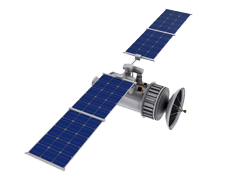
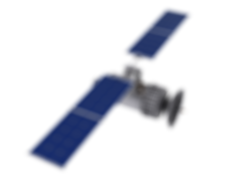
Added some new images, played with timings

diff --git a/sass/_page-the-cloning-process.scss b/sass/_page-the-cloning-process.scss
@@ -17,7 +17,7 @@
 
 .ig-satellite {
     width: 60%;
-    left: -25%;
+    left: -20%;
     filter: blur(5px);
 }
 

diff --git a/views/the-cloning-process.php b/views/the-cloning-process.php
@@ -6,14 +6,15 @@
 
 <main>
 
+    <img src="/img/infographic/bg.jpg" class="ig-background" data-0="top:0%;" data-8000="top:-10%;"/>
+
+    <img src="/img/infographic/moon.png" class="ig-moon" data-700="top:0%;" data-3000="top:-60%;"/>
+    <img src="/img/infographic/earth.png" class="ig-earth" data-0="top:50%;transform:scale(1); filter:blur(3px);" data-5000="top:25%;transform:scale(1.1);filter:blur(0px);" data-8000="top:0%;transform:scale(1.3);"/>
+    <img src="/img/infographic/satellite.png" class="ig-satellite" data-3000="top:100%;" data-5000="top:-300px;"/>
+
+    <img src="/img/infographic/cube.png" class="ig-cube" data-300="top:0%;" data-1000="top:50%;transform:scale(0.7)" data-5000="opacity:1;transform:scale(0.8)" data-8000="opacity:0;transform:scale(1)"/>
+    <img src="/img/infographic/cube-reentry.png" class="ig-cube-reentry" data-5000="opacity:0;" data-8000="opacity:1;" data-10000=""/>
     <img src="/img/infographic/bg.jpg" class="ig-background" data-0="top: 0%;" data-10000="top: -300%;"/>
-
-    <img src="/img/infographic/moon.png" class="ig-moon" data-0="top: 0%;" data-2000="top: -60%;"/>
-    <img src="/img/infographic/earth.png" class="ig-earth" data-0="top: 100%;transform:scale(1);" data-8000="top: 0%;transform: scale(1.2);"/>
-    <img src="/img/infographic/satellite.png" class="ig-satellite" data-1000="top: 100%;" data-3000="top: -100%;"/>
-
-    <img src="/img/infographic/cube.png" class="ig-cube" data-5000="opacity: 1;" data-7000="opacity: 0;" data-7500="opacity: 0;" data-8500="opacity: 1;" data-14000="top: 50%;" data-16000="top: 60%;" data-20000=""/>
-    <img src="/img/infographic/cube-reentry.png" class="ig-cube-reentry" data-5000="opacity: 0;" data-6000="opacity: 1;" data-10000=""/>
 
     <div class="ig-overlay" data-6500="background-color:rgb(255,255,255);opacity: 0;" data-7500="background-color: rgb(255,255,255);opacity: 1;" data-10000="background-color: rgb(63,151,249);" data-14000=""></div>
 
